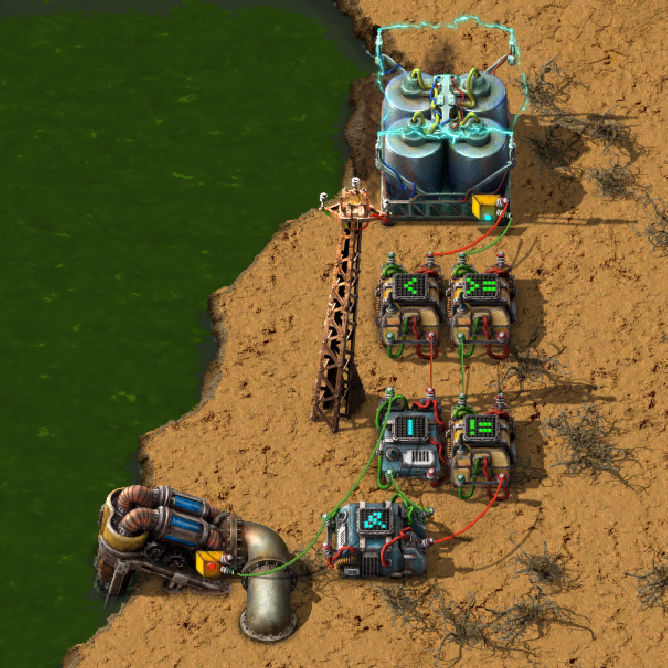
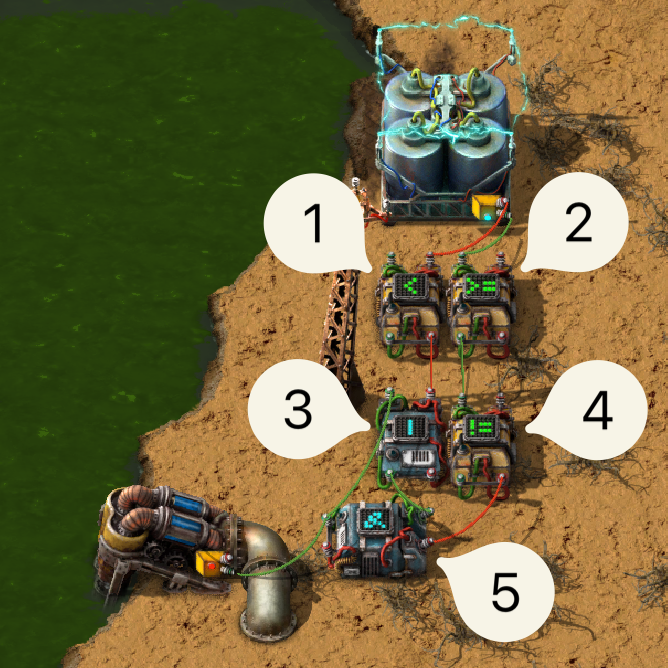
Add numbers to flip-flop image

diff --git a/content/blog/2024-04-07-power-shutoff-automation-in-factorio/index.md b/content/blog/2024-04-07-power-shutoff-automation-in-factorio/index.md
@@ -68,8 +68,6 @@ With Factorio’s combinators, we have all the tools to build our own flip-flop.
 remember whether the offshore pump is providing water to our coal generator, to be able to determine
 when to shut it off again.
 
-[//]: <> "TODO: Add numbers to the combinators"
-
 ![Factorio flip-flop](factorio-flip-flop.png "A flip-flop implemented using Factorio’s combinators.")
 
 The accumulator is sending a signal to two arithmetic combinators.
